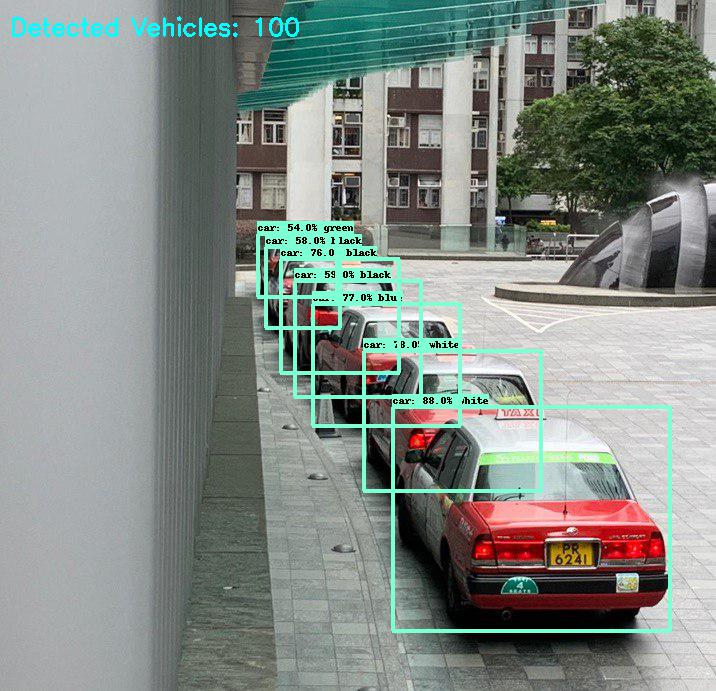
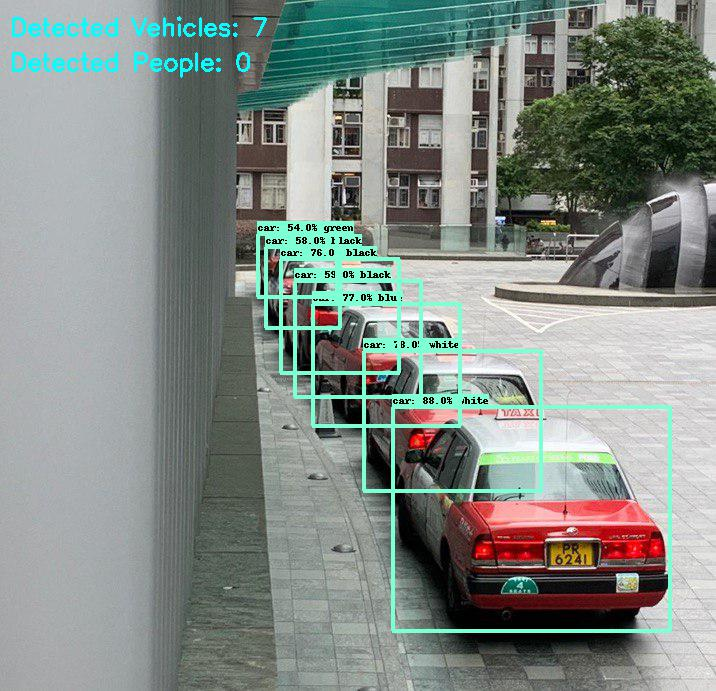
Add count cars and people

Changed region(s): [[0.0, 0.0, 0.4302, 0.1216]]

diff --git a/research/vehicle_detection.py b/research/vehicle_detection.py
@@ -79,7 +79,7 @@ def show_inference(model, image_path):
   # Actual detection.
   output_dict = run_inference_for_single_image(model, image_np)
   # Visualization of the results of a detection.
-  vis_util.visualize_boxes_and_labels_on_image_array(
+  output_image, numOfCars, numOfPerson = vis_util.visualize_boxes_and_labels_on_image_array(
       image_np,
       output_dict['detection_boxes'],
       output_dict['detection_classes'],
@@ -90,16 +90,25 @@ def show_inference(model, image_path):
       line_thickness=4)
   
   cv2.putText(
-      image_np,
-      'Detected Vehicles: ' + str(output_dict['num_detections']),
+      output_image,
+      'Detected Vehicles: ' + str(numOfCars),
       (10, 35),
       cv2.FONT_HERSHEY_SIMPLEX,
       0.8,
       (0, 0xFF, 0xFF),
       2,
       cv2.FONT_HERSHEY_SIMPLEX)
+  cv2.putText(
+      output_image,
+      'Detected People: ' + str(numOfPerson),
+      (10, 70),
+      cv2.FONT_HERSHEY_SIMPLEX,
+      0.8,
+      (0, 0xFF, 0xFF),
+      2,
+      cv2.FONT_HERSHEY_SIMPLEX)
   
-  return Image.fromarray(image_np, 'RGB')  
+  return Image.fromarray(output_image)
 
 # List of the strings that is used to add correct label for each box.
 PATH_TO_LABELS = 'object_detection/data/mscoco_label_map.pbtxt'
@@ -107,7 +116,7 @@ category_index = label_map_util.create_category_index_from_labelmap(PATH_TO_LABE
 
 # If you want to test the code with your images, just add path to the images to the TEST_IMAGE_PATHS.
 PATH_TO_TEST_IMAGES_DIR = pathlib.Path('object_detection/test_images')
-TEST_IMAGE_PATHS = sorted(list(PATH_TO_TEST_IMAGES_DIR.glob("*.jpeg")))
+TEST_IMAGE_PATHS = sorted(list(PATH_TO_TEST_IMAGES_DIR.glob("*.png")))
 
 model_name = 'ssd_resnet101_v1_fpn_1024x1024_coco17_tpu-8' #'efficientdet_d6_coco17_tpu-32'
 detection_model = load_model(model_name)

diff --git a/research/object_detection/utils/visualization_utils.py b/research/object_detection/utils/visualization_utils.py
@@ -1175,6 +1175,9 @@ def visualize_boxes_and_labels_on_image_array(
   box_to_track_ids_map = {}
   box_to_predicted_color_map = collections.defaultdict(str)
 
+  numOfCars = 0
+  numOfPerson = 0
+
   im_width, im_height = Image.fromarray(image).size
 
   if not max_boxes_to_draw:
@@ -1194,7 +1197,7 @@ def visualize_boxes_and_labels_on_image_array(
       
       detected_vehicle_array = image[int(top):int(bottom), int(left):int(right)]     
       predicted_color = color_recognition_api.color_recognition(detected_vehicle_array)       
-      
+      class_name = 'N/A'
       if instance_masks is not None:
         box_to_instance_masks_map[box] = instance_masks[i]
       if instance_boundaries is not None:
@@ -1236,11 +1239,15 @@ def visualize_boxes_and_labels_on_image_array(
         else:
           box_to_color_map[box] = STANDARD_COLORS[
               classes[i] % len(STANDARD_COLORS)]
+      if class_name == 'car' :
+        numOfCars = numOfCars + 1
+      elif class_name == 'person':
+        numOfPerson = numOfPerson + 1
       box_to_predicted_color_map[box] = predicted_color
   # Draw all boxes onto image.
   for box, color in box_to_color_map.items():    
     ymin, xmin, ymax, xmax = box
-        
+
     if instance_masks is not None:
       draw_mask_on_image_array(
           image,
@@ -1281,7 +1288,7 @@ def visualize_boxes_and_labels_on_image_array(
           keypoint_edge_color=color,
           keypoint_edge_width=line_thickness // 2)
 
-  return image
+  return image, numOfCars, numOfPerson
 
 
 def add_cdf_image_summary(values, name):
